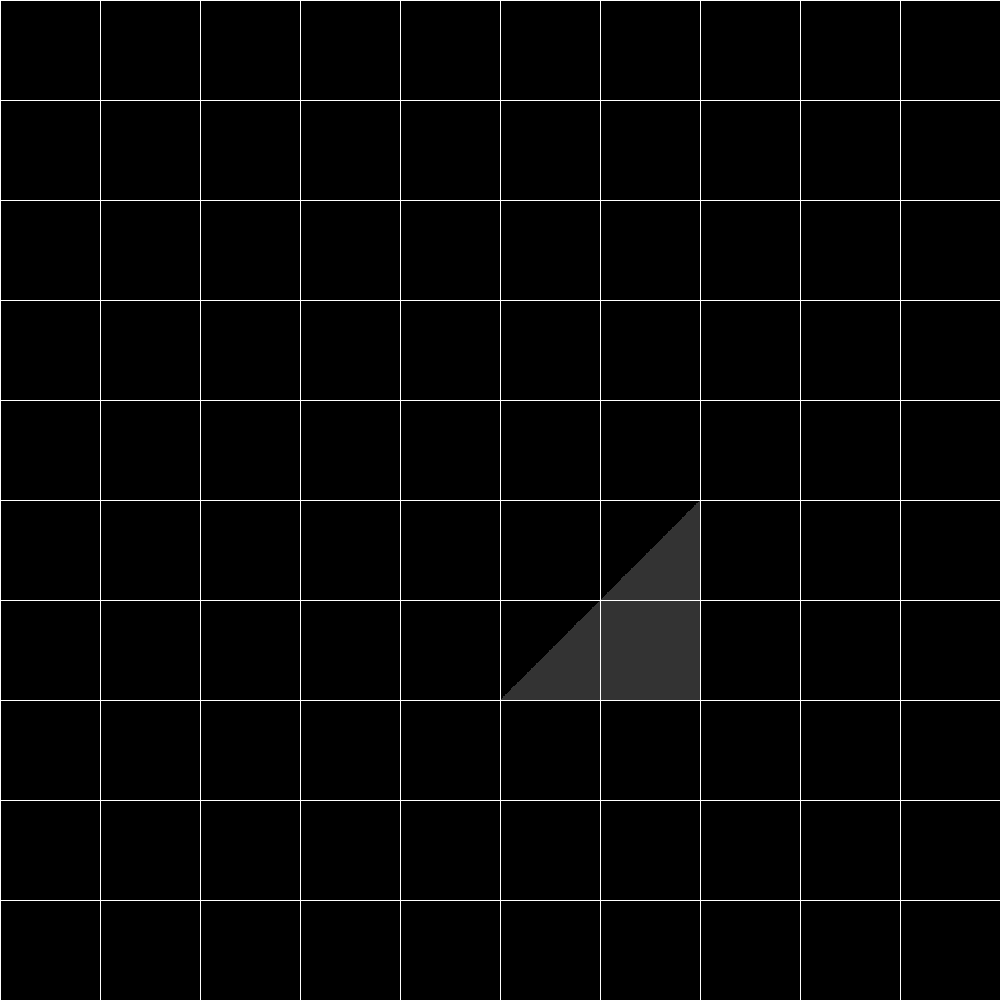
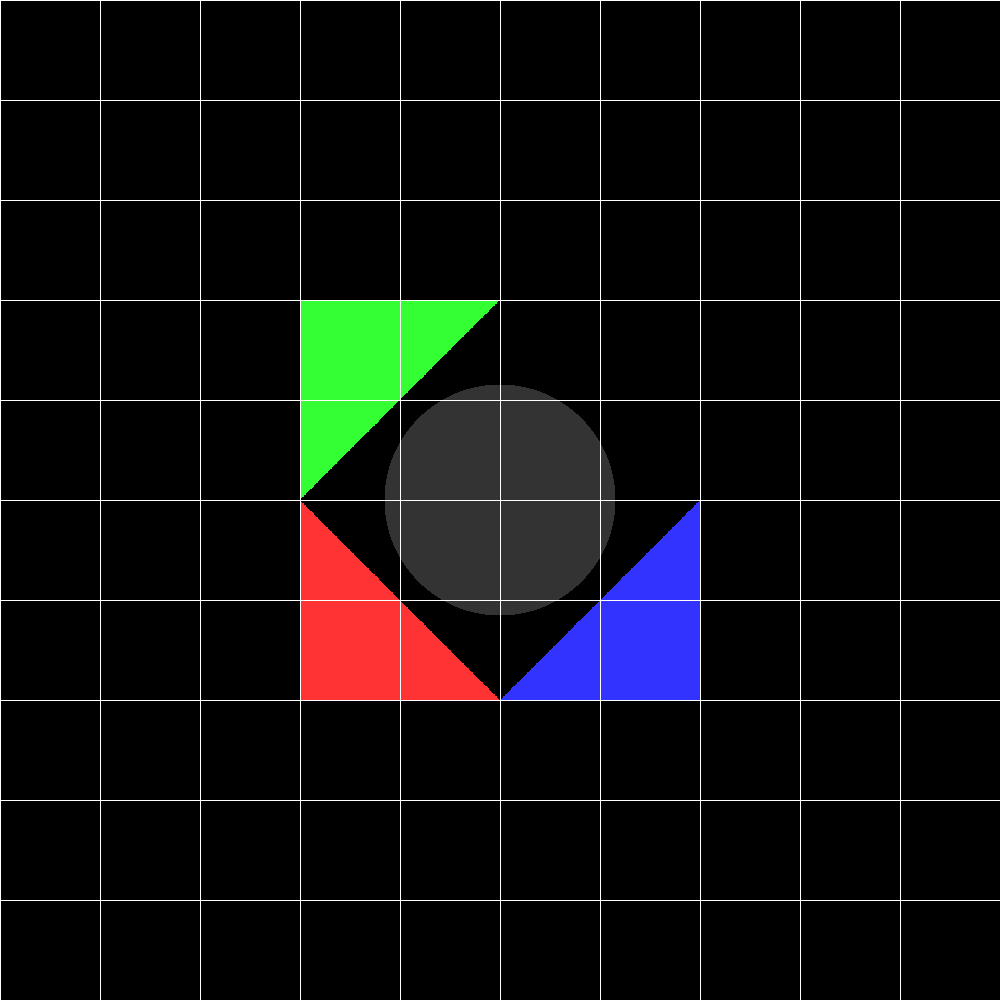
12:50 Finally

Changed region(s): [[0.279, 0.279, 0.713, 0.713]]

diff --git a/src/geometries/Triangle.java b/src/geometries/Triangle.java
@@ -2,6 +2,7 @@ package geometries;
 
 import primitives.*;
 
+import java.util.ArrayList;
 import java.util.List;
 
 
@@ -46,8 +47,8 @@ public class Triangle extends Polygon{
         /**Creates a new plane and tests the findIntsersections**/
 
         Plane Triangle_plain=new Plane(vertices.get(0), vertices.get(1), vertices.get(2));
-        List<GeoPoint> Triangle_Intsersections=plane.findGeoIntersections(ray);
-        if (Triangle_Intsersections == null)
+        List<GeoPoint> T_plane_Intsersections=plane.findGeoIntersections(ray);
+        if (T_plane_Intsersections == null)
             return null;
         // check if the intersection point is inside triangle
         Point p0 = ray.getP0();
@@ -60,6 +61,11 @@ public class Triangle extends Polygon{
         Vector n1=(v1.crossProduct(v2)).normalize();
         Vector n2=(v2.crossProduct(v3)).normalize();
         Vector n3=(v3.crossProduct(v1)).normalize();
+
+        List<GeoPoint> Triangle_Intsersections=new ArrayList<>();
+        for (GeoPoint gp:T_plane_Intsersections) {
+            Triangle_Intsersections.add(new GeoPoint(this,gp.point));
+        }
 
         return(((dir.dotProduct(n1) > 0 && dir.dotProduct(n2) > 0 && dir.dotProduct(n3) > 0) || (dir.dotProduct(n1) < 0 && dir.dotProduct(n2) < 0 && dir.dotProduct(n3) < 0))?Triangle_Intsersections:null);
 

diff --git a/unittests/renderer/RenderTests.java b/unittests/renderer/RenderTests.java
@@ -56,13 +56,13 @@ public class RenderTests {
 				.setAmbientLight(new AmbientLight(new Color(WHITE), new Double3(0.2))); //
 
 		scene.geometries.add( //
-			//	new Sphere(new Point(0, 0, -100), 50),
+				new Sphere(new Point(0, 0, -100), 50),
 				// up left
-			//	new Triangle(new Point(-100, 0, -100), new Point(0, 100, -100), new Point(-100, 100, -100))
-			//			.setEmission(new Color(GREEN)),
+				new Triangle(new Point(-100, 0, -100), new Point(0, 100, -100), new Point(-100, 100, -100))
+						.setEmission(new Color(GREEN)),
 				// down left
-			//	new Triangle(new Point(-100, 0, -100), new Point(0, -100, -100), new Point(-100, -100, -100))
-			//			.setEmission(new Color(RED)),
+				new Triangle(new Point(-100, 0, -100), new Point(0, -100, -100), new Point(-100, -100, -100))
+						.setEmission(new Color(RED)),
 				// down right
 				new Triangle(new Point(100, 0, -100), new Point(0, -100, -100), new Point(100, -100, -100))
 						.setEmission(new Color(BLUE)));

diff --git a/src/geometries/Geometries.java b/src/geometries/Geometries.java
@@ -49,7 +49,7 @@ public class Geometries extends Intersectable {
         return result;
     }
     public List<GeoPoint> findGeoIntersections (Ray ray){
-        return findGeoIntersectionsHelper  (ray);
+        return findGeoIntersectionsHelper(ray);
     }
 
     protected List<GeoPoint> findGeoIntersectionsHelper  (Ray ray){

diff --git a/src/renderer/RayTracerBasic.java b/src/renderer/RayTracerBasic.java
@@ -32,7 +32,6 @@ public class RayTracerBasic extends RayTracerBase {
 
 	@Override
 	public Color traceRay(Ray ray) {
-		System.out.print("traceRay");
 		List<GeoPoint> closestPoint = scene.geometries.findGeoIntersections(ray);
 		return closestPoint == null ? scene.background : calcColor(ray.findClosestGeoPoint(closestPoint));
 
